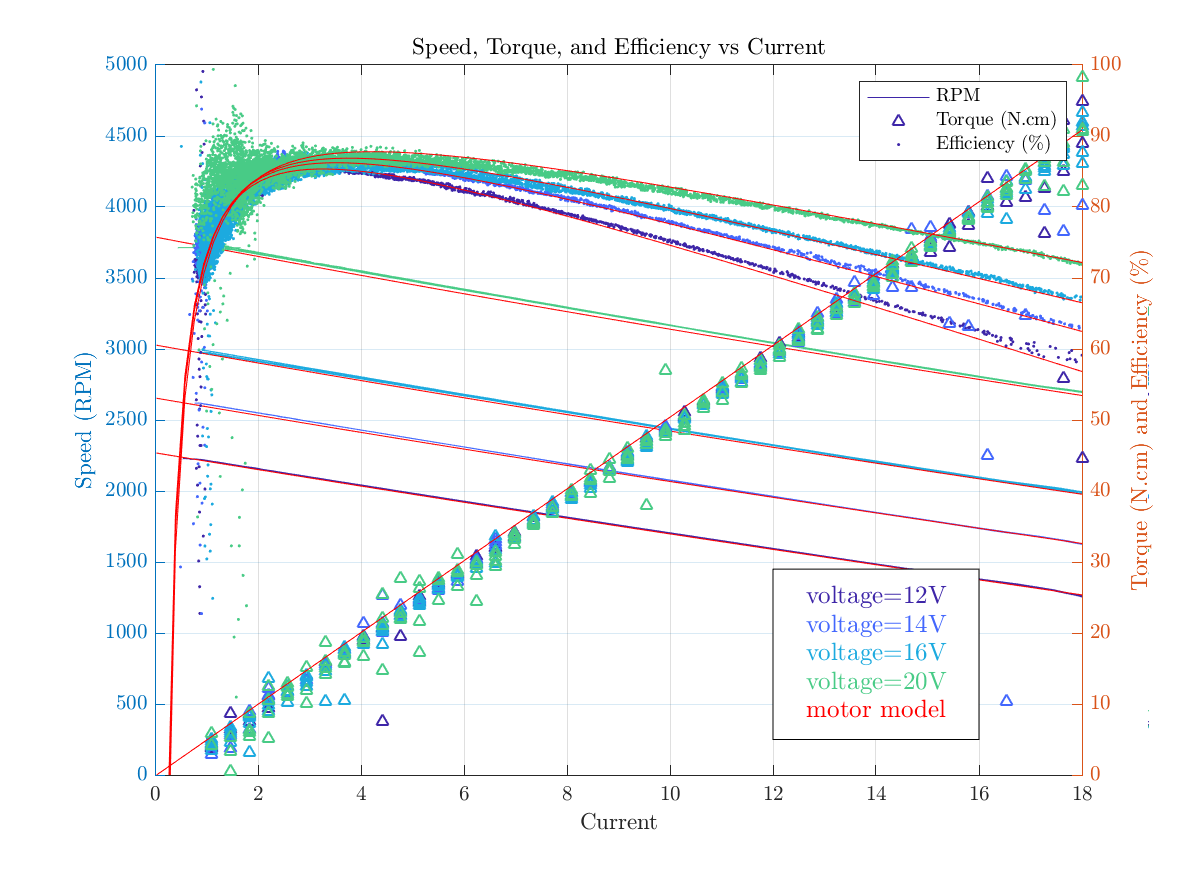
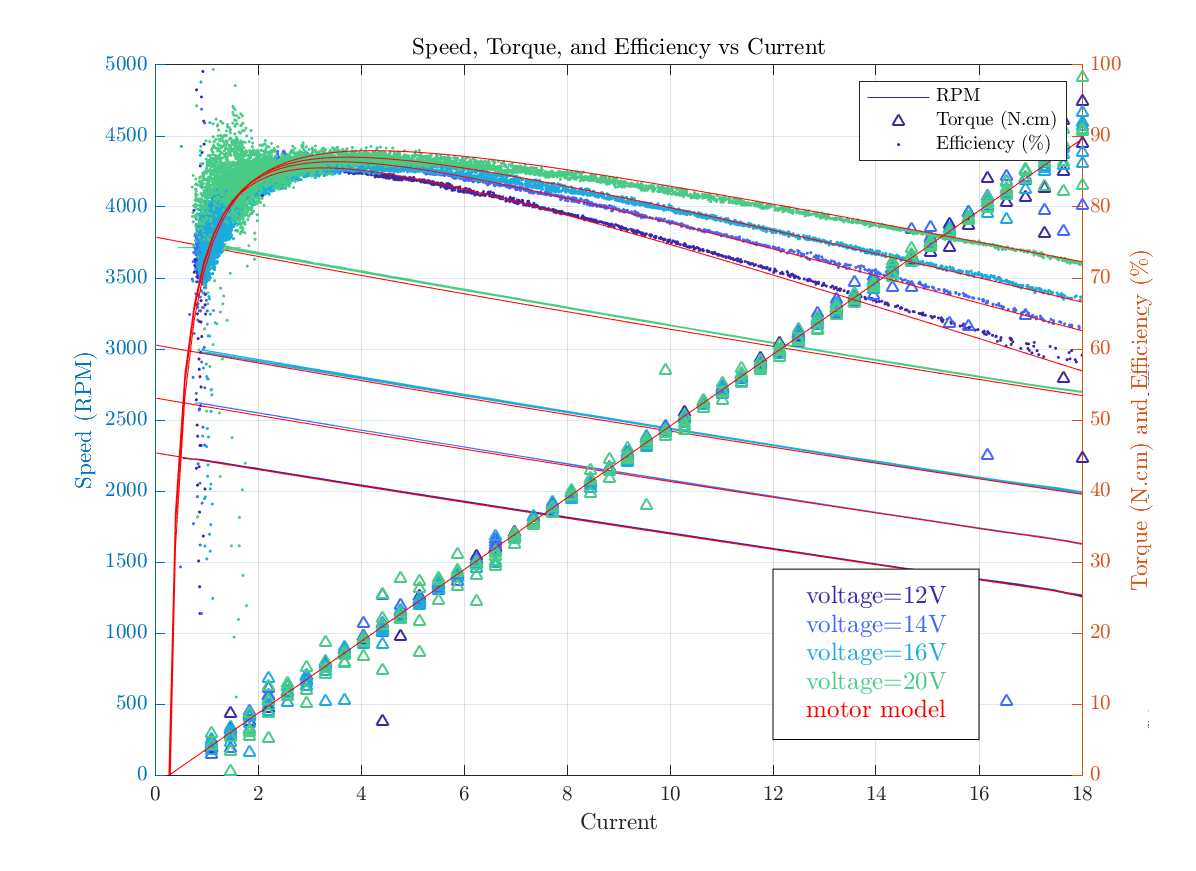
includes transmission losses

diff --git a/DynoData/Koford/2019_jun2/motorModel.m b/DynoData/Koford/2019_jun2/motorModel.m
@@ -49,7 +49,7 @@ for i = 1:length(allParameters)
     modelRsTmp = sqrt(modelRs.^2 + (modelLs*modelRPM*2 / 60 * 2 * pi).^2);
     modelRPM = (V - IVals.*modelRsTmp) * modelKv;
     
-    modelTorque = IVals * modelKt;
+    modelTorque = (IVals-0.25) * modelKt;
     modelLosses = [IVals.^2.*modelRs, ...           % I2R
                    polyval(PvsERPM,modelRPM*2), ... % nonelectrical
                    0.3*ones(size(modelRPM)), ...    % controller

diff --git a/DynoData/Koford/noLoad/analyze.m b/DynoData/Koford/noLoad/analyze.m
@@ -44,7 +44,7 @@ PvsERPM = polyfit(rpm,power./rpm,2); PvsERPM(end+1) = 0;
 R2 = 1 - sum((power - polyval(PvsERPM,rpm)).^2) ./ sum((power-mean(power)).^2)
 ERPMvals = linspace(0,max(rpm)*1.1);
 
-% save('nonElectricalLosses','PvsERPM');
+save('nonElectricalLosses','PvsERPM');
 
 %% plot
 set(groot, 'defaultAxesTickLabelInterpreter','latex');
